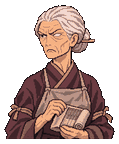
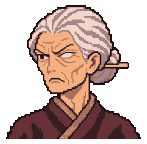
act-38: portraits redrawn in the old style (head and shoulders, the head half the height, a thick outline, flat 16 colours) with the Han costumes (Codex, BRIEF3); a link opening lifts the button once, softly, toward a pale tint of its colour and eases back (no pulse, no sparks)

diff --git a/src/present/act/ironUi.ts b/src/present/act/ironUi.ts
@@ -166,7 +166,7 @@ export class IronBtn {
   hint: HintKey | null = null; /** which side the badge pops up on (−1 upper left, +1 upper right: the big cut button has the jump button at its upper left) */ badgeSide: -1 | 1 = -1; private badge: THREE.Mesh | null = null; private badgeKey: HintKey | null = null; private badgeK = 0; private badgePop = 1;
   /** charges left / the most (the dart button: three bronze lamps on an arc over the shield); max 0 = none */
   pips = 0; pipMax = 0; private pipMeshes: THREE.Mesh[] = [];
-  private ring: ReturnType<typeof plateRing>; private icon: Model3D; private sock!: THREE.Mesh; private sockK = 0; private sockCol = new THREE.Color(); private shadow: THREE.Mesh; private tassel: THREE.Mesh | null = null;
+  private ring: ReturnType<typeof plateRing>; private icon: Model3D; private sock!: THREE.Mesh; private sockK = 0; private sockCol = new THREE.Color(); private linkT = 0; private shadow: THREE.Mesh; private tassel: THREE.Mesh | null = null;
   private pressK = 0; private flashT = 0; private wasReady = true; private tt = 0; private wasFull = false; private lift = 6; private popT = 1;
   /** act-29 (用户：「UI组件的各种状态、动效的切换、特效的提示」): a spring on the button's size (press sinks, release overshoots), a
    *  shake + dull red when pressed while it cannot act, a run of light round the plates when it comes ready, a kick from the game
@@ -245,6 +245,7 @@ export class IronBtn {
       // came ready: a run of light round the plates from the top, clockwise
       if (this.sweepT < 1) { const at = this.sweepT * 9 - 0.5, w = Math.max(0, 1 - Math.abs(i - at)); this.col.lerp(WHITE, w * 0.25); }   // (act-34 / 35: 「太闪了」— a faint run of light)
       if (this.kickT > 0) this.col.lerp(this.kickCol, Math.min(1, this.kickT * 4) * 0.5);
+      if (this.linkT > 0 && hc) this.col.lerp(WHITE, 0.5 * (this.linkT / 0.35) * (this.linkT / 0.35));   // (act-37: the link opening — one soft lift, eased out)
       if (this.denyT > 0) this.col.lerp(DENY, Math.min(1, this.denyT * 4) * 0.6);
       paintRange(geo, this.ring.ranges[i * 2], this.col);
     }
@@ -275,7 +276,7 @@ export class IronBtn {
     // (plates above, the socket a deep shade of it, steady), and the picture turns over like a token: the sabre on its back, the
     // move on its face (a light tint of its colour, standing out on the dark socket). Another move while one is up: the face turns to its edge, then round to the new one.
     const altKey = this.talk ? 'talk' : hint;
-    if (altKey && !this.altKey) { this.altKey = altKey; this.altK = 0; this.scV += 0.9; }   // (a small knock as it turns, no light)
+    if (altKey && !this.altKey) { this.altKey = altKey; this.altK = 0; this.scV += 0.9; if (hint) this.linkT = 0.35; }   // (a small knock as it turns; act-37 用户：「可派生的时候还是要亮一下，只不过不能太亮了」→ one soft lift)
     if (altKey && this.altKey && altKey !== this.altKey && this.altK < 0.5) this.altKey = altKey;   // not showing yet: just take it
     let m = this.altKey ? this.alts.get(this.altKey) : null;
     if (this.altKey && !m) {
@@ -284,19 +285,20 @@ export class IronBtn {
     }
     const toEdge = !!altKey && !!this.altKey && altKey !== this.altKey;   // a different move: turn to the edge first
     this.altK = toEdge ? Math.max(0.5, this.altK - dt / 0.07) : Math.max(0, Math.min(1, this.altK + (altKey ? 1 : -1) * dt / 0.14));
-    if (toEdge && this.altK <= 0.5) { this.altKey = altKey; this.scV += 0.5; }
+    if (toEdge && this.altK <= 0.5) { this.altKey = altKey; this.scV += 0.5; if (hint) this.linkT = 0.35; }
+    this.linkT = Math.max(0, this.linkT - dt); const lk = (this.linkT / 0.35) ** 2;
     if (!altKey && this.altK <= 0) this.altKey = null;
     const e = this.altK * this.altK * (3 - 2 * this.altK), face = e >= 0.5;
     this.iconG.rotation.y += Math.PI * e;
     for (const [k, o] of this.alts) {
       o.visible = face && k === this.altKey;
-      if (o.visible) { o.scale.setScalar(1.05); if (k !== 'talk') { o.setDim(0); o.setGlow(1); } }
+      if (o.visible) { o.scale.setScalar(1.05); if (k !== 'talk') { o.setDim(0); o.setGlow(1 + 1.2 * lk); } }
     }
     this.icon.visible = !face; this.icon.scale.setScalar(1);
     // the socket: a deep shade of the move's colour while a move is up (not for 'talk')
     { const on = hint ? 1 : 0; this.sockK += (on - this.sockK) * Math.min(1, dt * 14);
       if (hint) this.sockCol.copy(HINT_COLS[hint]).multiplyScalar(0.2);
-      ((this.sock.material as THREE.MeshLambertMaterial).color).setHex(0x24272e).lerp(this.sockCol, this.sockK); }
+      ((this.sock.material as THREE.MeshLambertMaterial).color).setHex(0x24272e).lerp(this.sockCol, this.sockK); if (hint && lk > 0) (this.sock.material as THREE.MeshLambertMaterial).color.lerp(HINT_COLS[hint], 0.6 * lk); }
   }
   dispose() { disposeTree(this.root); disposeTree(this.iconG); if (this.badge) disposeTree(this.badge); for (const m of this.alts.values()) m.dispose(); }
 }

diff --git a/CLAUDE.md b/CLAUDE.md
@@ -129,6 +129,7 @@
 - **act-36 之后（11-17，续）**：刘白立绘六选一——「第一张最好，风格要和其他立绘对齐一下。」→ 用第 1 版（低头的三分之四肩像）；等其余 10 张按汉末重画完，以新画的几张为参考，把第 1 版重画成同一画风（描边粗细、明暗层数、配色饱和度、构图大小一致），11 张一起换进游戏。
 - **act-36 之后（11-17，三续）**：（act-37 出包前，Breeze 配音 83 句已接进对话）「你配音是让谁写的提示词，一点符合游戏剧情情况的情绪都没放进去。先不要一次性生成全量，各种情绪的配音先每个人生成几段，让我选音色。」→ 提示词是我写的：音色描述只写了年龄、嗓音质地，全部台词用同一段平平的试音句克隆，没有逐句的情绪指示，所以每句都是一个语气。改成：① **先选音色、不出全量**：每人 4 个候选音色，每个候选用 5 句真台词（覆盖这个人在剧情里的几种情绪：刘白的冷硬对仇人 / 压着的恨 / 想起阿爹的低哑 / 重伤醒来的虚 / 杀完人的空）配出来，用户选音色；② **逐句情绪指示**：Breeze 的「声音导演」模式（参考音 + 指示一起给）——每句按剧情写一句情绪和语气（在哪、对谁、压着什么、快慢轻重），不再只克隆；③ 用户定了音色再配全量；④ 没定之前，这批平的配音**不进构建**（代码留着，音频从游戏里撤掉）。
 - **act-37 反馈（11-17）**：「现在切换到派生图标的表现又太不明显了，想想怎么解决这个问题。」→ act-35 去掉闪光后，能接派生招时只剩：钮圈染三成颜色、刀图标 0.1 秒缩小换成招式图标（同样大小、好几个招式是近白的淡色，和白钢刀图标差不多），余光根本看不到。改成**「换状态」而不是「闪一下」**（不加闪光、火星、扫光，图标仍在钮里）：① **整颗钮换色**：八片甲片几乎全染成那一招的颜色、钮心凹槽变成同色的深色，稳着不呼吸（大面积的颜色变化余光看得见，又不刺眼）；② **图标翻面**：像翻一块令牌，绕竖轴转半圈（约 0.2 秒），刀在背面、招式在正面，招式图标比刀大两成；换另一招时从侧面再翻一次；③ **招式颜色拉开**：原来淡白的几种（穿风斩、回身镖、二段跳、近身三镖）换成饱和、彼此分得开的颜色；④ 换上时钮身轻轻一顿（回弹，在已有上限内），不发光。
+- **act-37 反馈（11-17，四续）**：（派生招改成「换状态不闪」之后）「我觉得可派生的时候还是要亮一下，只不过不能太亮了，还是要有提示才行。」→ 能接派生招的**那一刻柔和地亮一下**：甲片和钮心从招式色提亮到偏白的浅色、约 0.35 秒退回招式色，图标同时亮一下；只亮一次，不呼吸、不闪烁、不加火星和光波；亮度上限压在 act-34 嫌刺眼那版的一半以下。
 - **act-37 反馈（11-17，续）**：我问的三件事——「你说的三个问题除了刀的颜色之外，别的都可以接受。刀担心看不清。」→ ① **开门引贼的洛阳名士就是周黯**（她亲手救活的人是主谋；官名用汉代的「尚方丞」）；② **刀不改黑**：游戏里的刀保持用户改过的亮钢色（黑刀身在俯视镜头下看不清），小说 / 台词里「乌沉刀」「黑刀」的说法暂不动；③ **据点墙上做刀架**：三十个刀位，文家那三十柄百辟刀每拿回一柄就挂上一柄（杀褚雷拿回第一柄），空位看得出还差多少。
 - **act-37 反馈（11-17，再续）**：「商店里的选项都是codex做的模型吗？好丑，还过曝了。然后这版立绘对比之前糊了好多，画风也不如之前的。」→ ① 摊位是我做的（act-17 的摊子、act-36 的浮空图标），不是 Codex：大红布桌面 + 桌上几件很小的白东西，上面再浮一个发光的薄卡牌图标（转着多半是侧面），白天亮场景里糊成白块。**重做摊位**：去掉发光的浮空卡牌图标；货物本身做大、做成好看的体素小件（竹简秘卷、药葫芦、青砥石带刀），摆在深色木货架 / 席子上，走近时货物抬起慢慢转（不发光，照常受光）；桌布不用大红。② 立绘糊：新的一套是半身构图，脸只占约三分之一高，144 像素里五官没几个像素；处理时用了平滑缩放、留 40 色，边缘发虚。旧的一套是头肩特写、16 色平涂、粗黑描边。**画风回到旧的那套**：以旧立绘（act-36 及以前）为画风和构图的样板——头肩特写、头约占一半高、粗描边、2～3 层平涂、16 色——只换成汉末的发型衣服（新画的那套当内容参考），11 张一起重画（Codex），处理改成「紧裁头肩 + 像素格对齐缩小 + 16 色无抖动」。
 

diff --git a/docs/DESIGN.md b/docs/DESIGN.md
@@ -597,3 +597,10 @@
   - 内容 = 汉末装束（新画的那套的发型、巾帻冠、交领、札甲照搬）；
   - 处理：紧裁到头肩，按原图像素格整格缩小到 144 高（不用平滑缩放），16 色无抖动。
 
+### 派生招提示：开的那一下柔和地亮一次（11-17）
+
+用户：「我觉得可派生的时候还是要亮一下，只不过不能太亮了，还是要有提示才行。」
+
+- 能接派生招的那一刻：八片甲片和钮心从招式色提亮到「招式色掺一半白」，约 0.35 秒缓缓退回招式色；翻面的招式图标同一时间发光加强、跟着退回。
+- 只亮一次（换另一招时再亮一次），不呼吸、不闪烁、不加火星 / 光波 / 扫光；最亮时也只到招式色和白色的中间，不是整块白。
+
